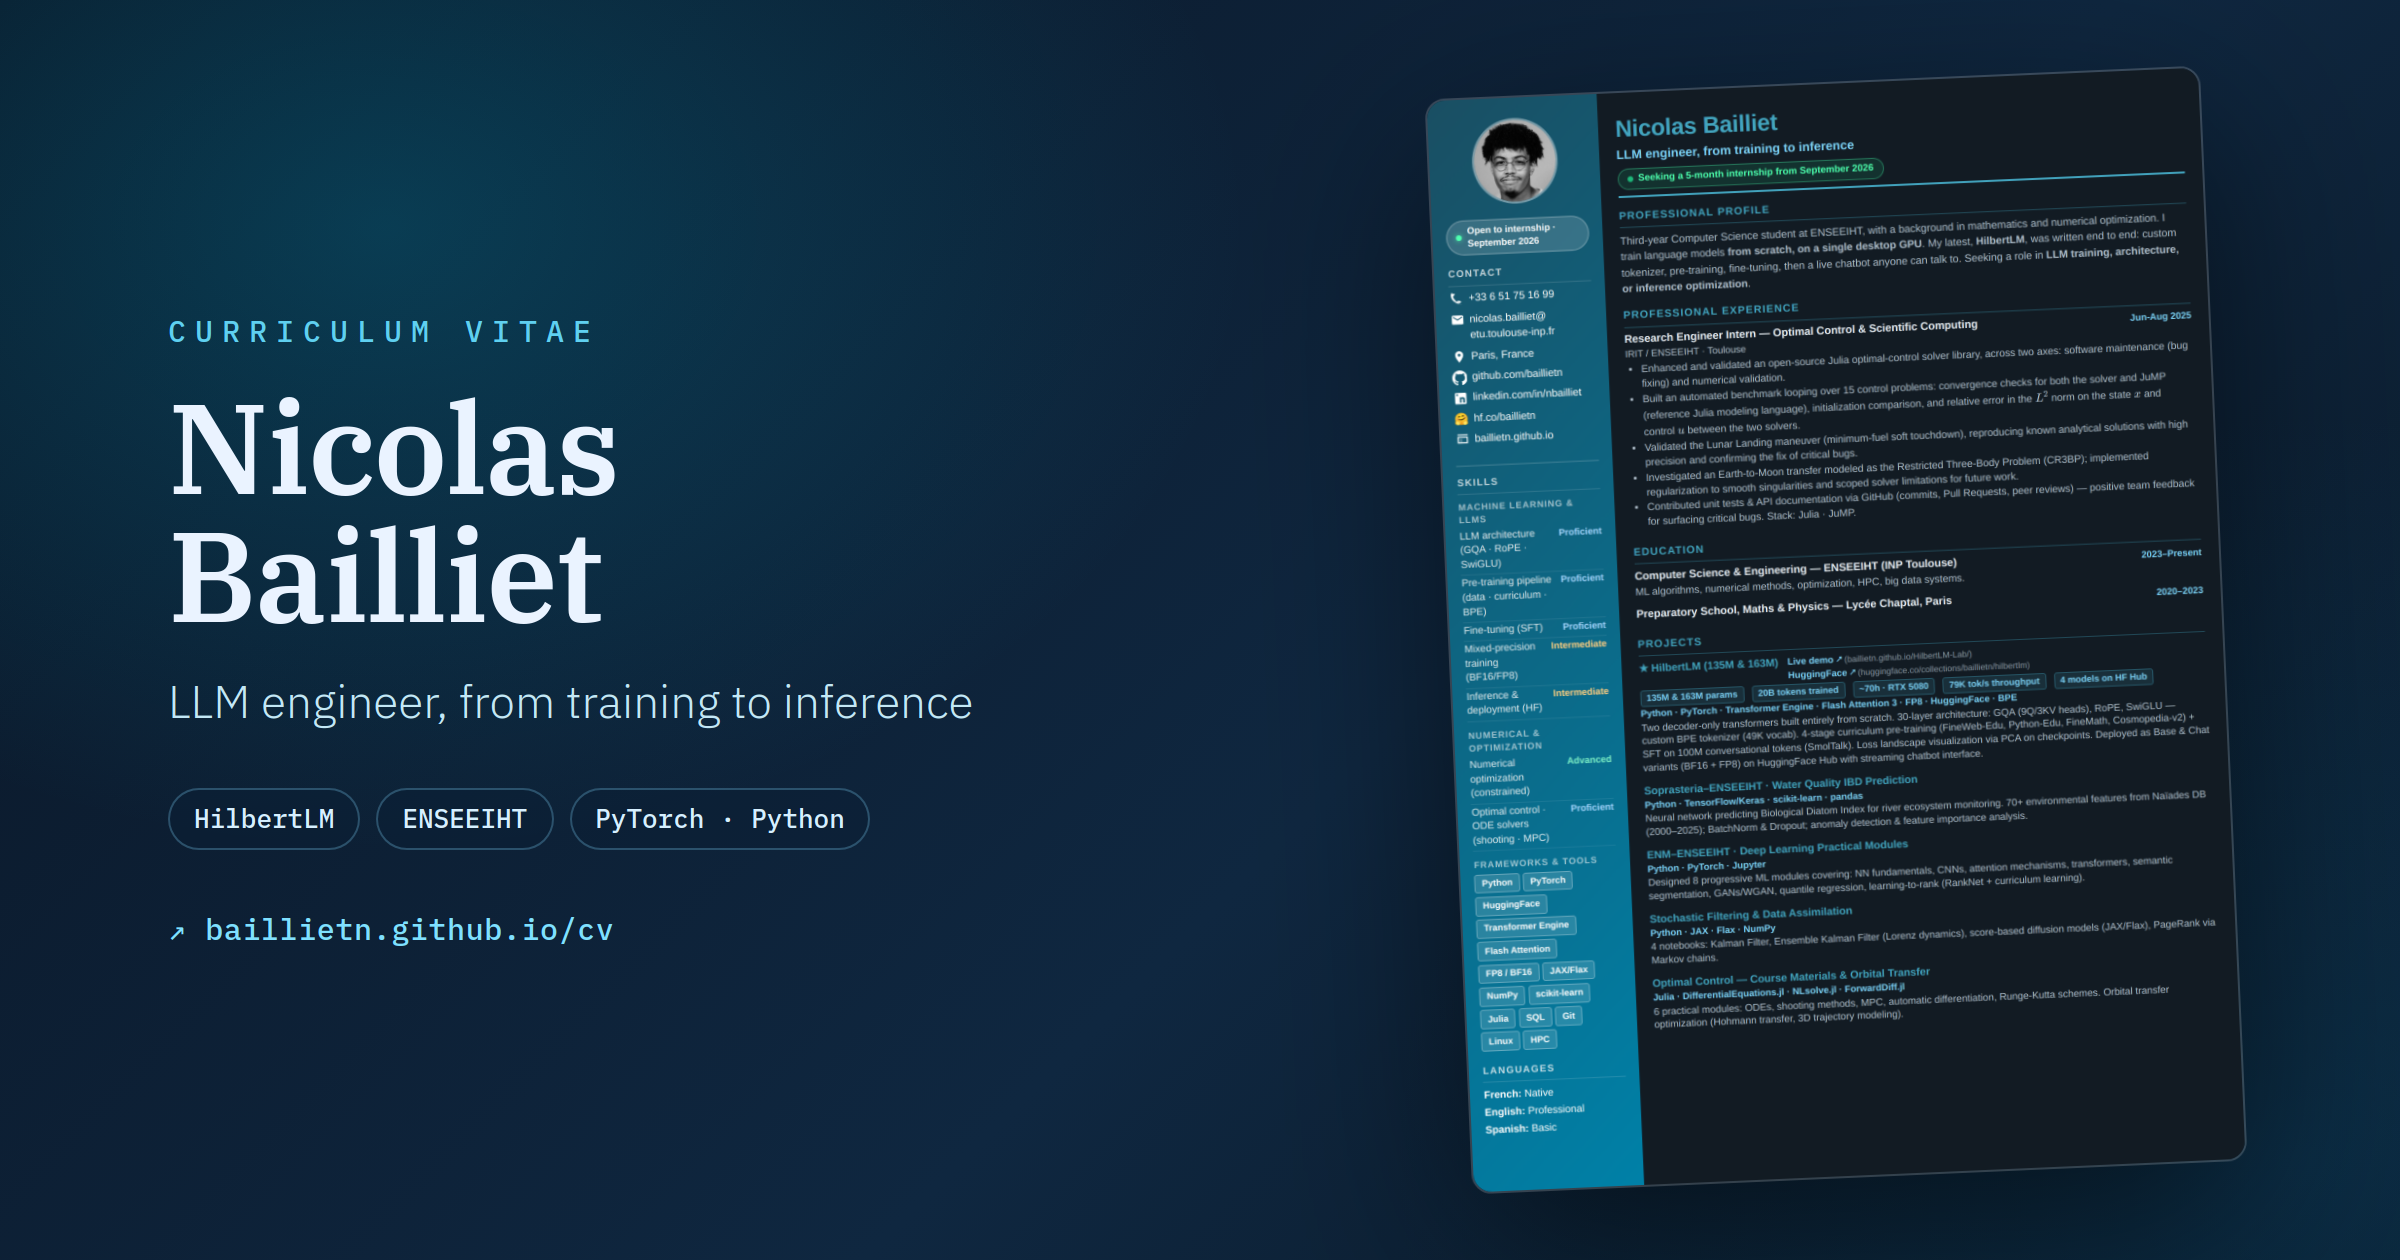
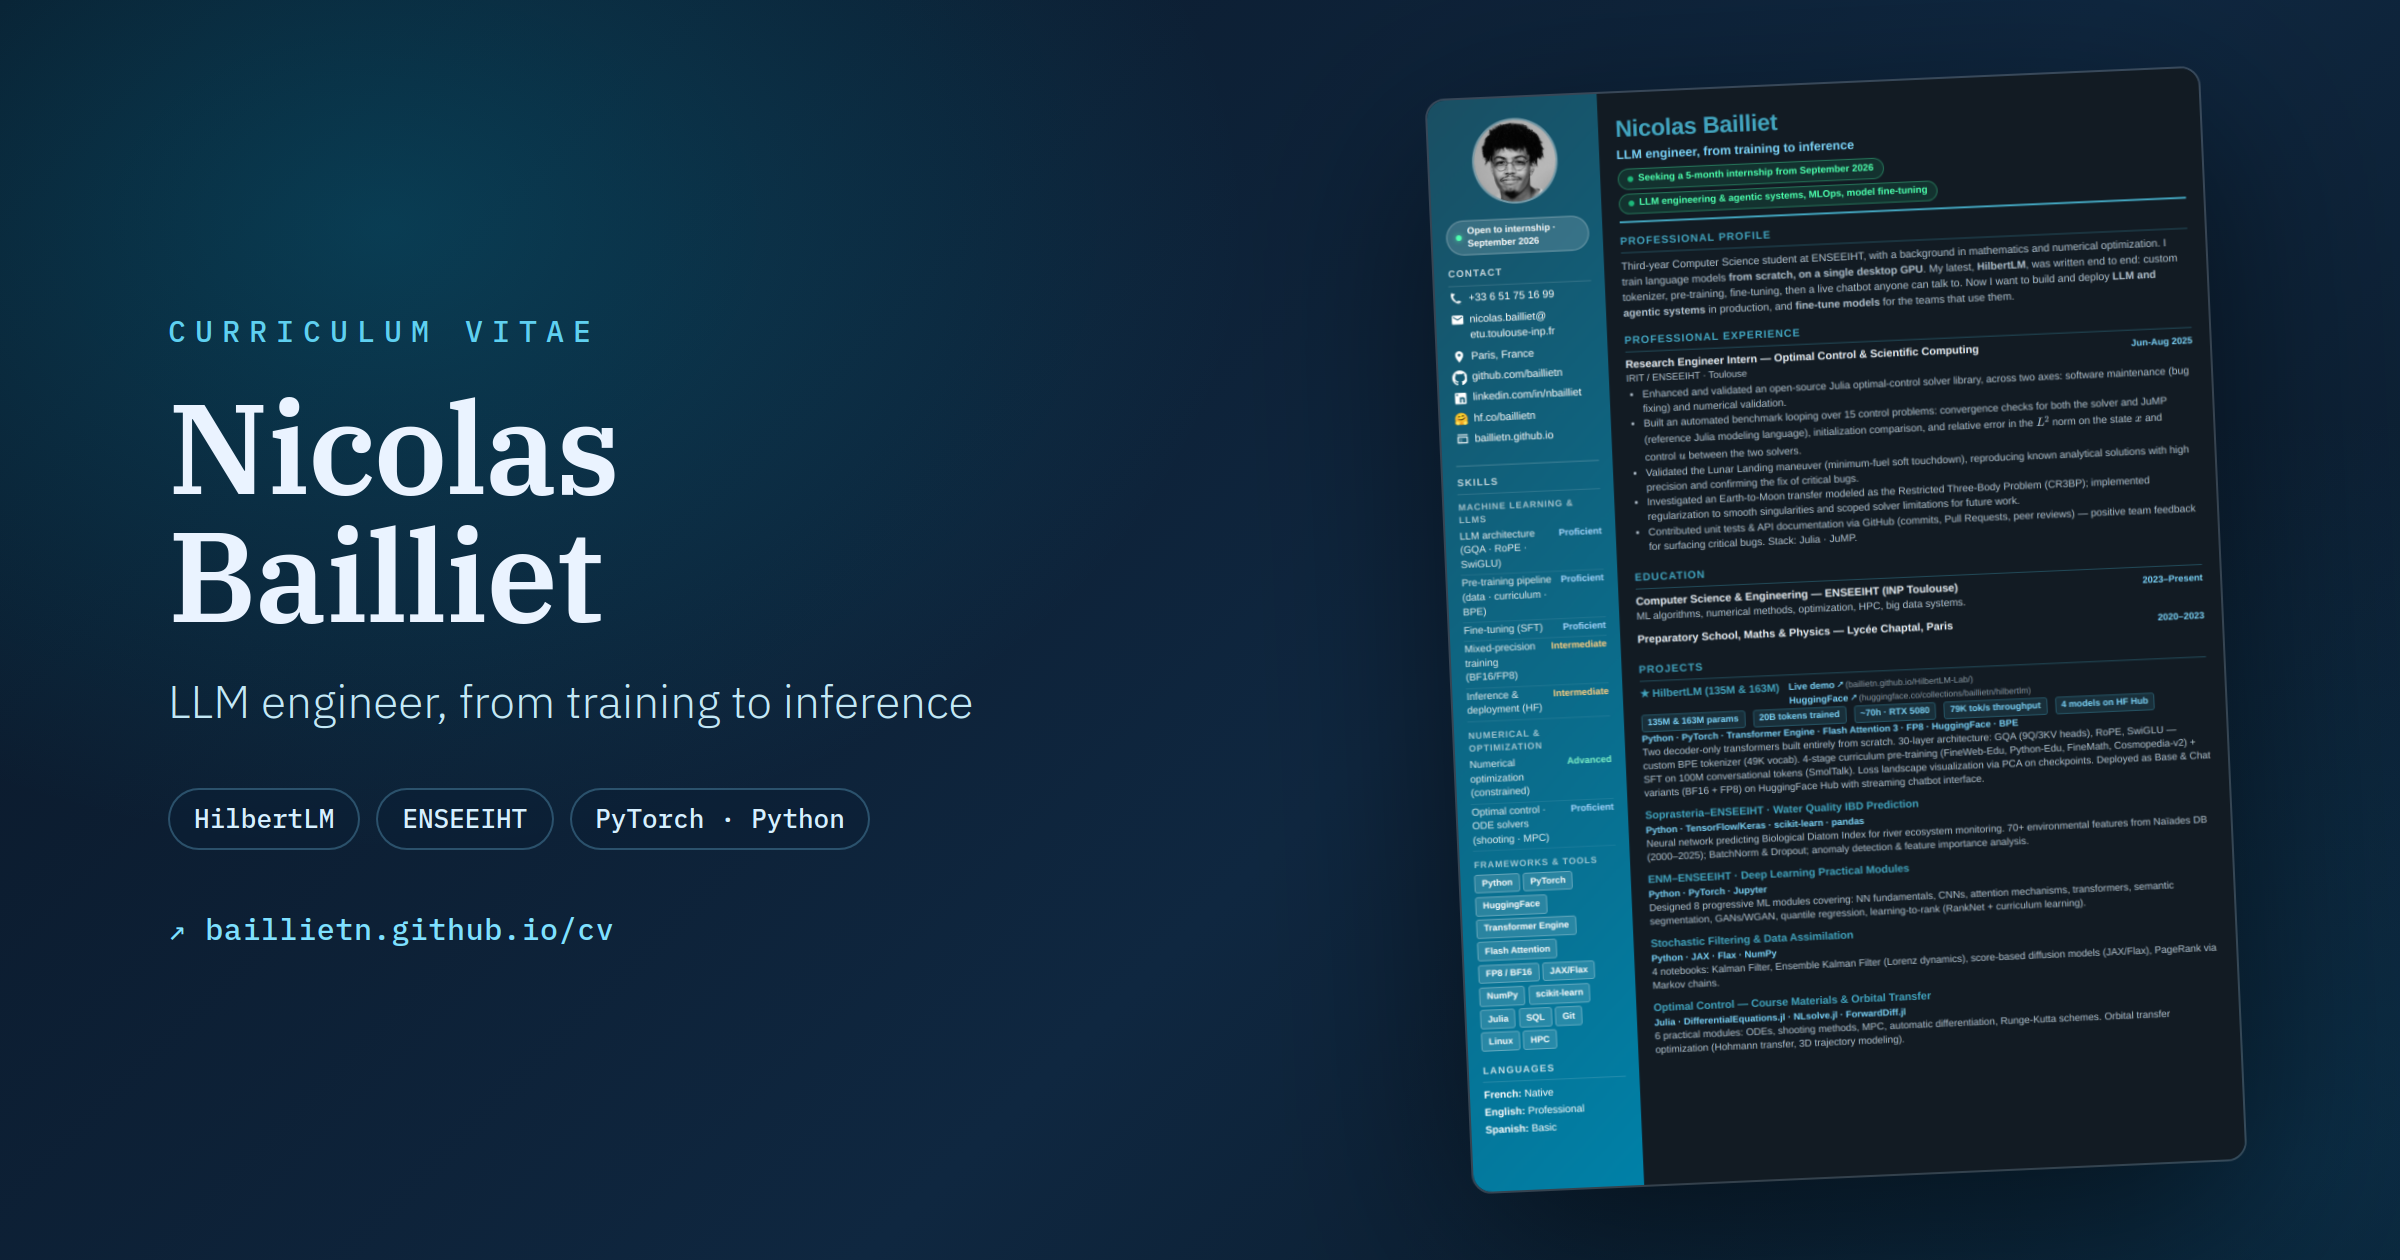
update objectives

Changed region(s): [[0.6562, 0.1238, 0.9375, 0.8357]]

diff --git a/cv/index.html b/cv/index.html
@@ -144,9 +144,15 @@
                 <div class="name">Nicolas Bailliet</div>
                 <div class="title-line">LLM engineer, from training to inference
                 </div>
-                <div class="avail-inline">
-                    <span class="avail-inline-dot"></span>
-                    Seeking a 5-month internship from September 2026
+                <div class="avail-row">
+                    <div class="avail-inline">
+                        <span class="avail-inline-dot"></span>
+                        Seeking a 5-month internship from September 2026
+                    </div>
+                    <div class="avail-inline">
+                        <span class="avail-inline-dot"></span>
+                        LLM engineering &amp; agentic systems, MLOps, model fine-tuning
+                    </div>
                 </div>
             </div>
 
@@ -157,7 +163,8 @@
                     I train language models <strong>from scratch, on a single desktop GPU</strong>. My latest,
                     <strong>HilbertLM</strong>, was written end to end: custom tokenizer, pre-training, fine-tuning,
                     then a live chatbot anyone can talk to.
-                    Seeking a role in <strong>LLM training, architecture, or inference optimization</strong>.
+                    Now I want to build and deploy <strong>LLM and agentic systems</strong> in production,
+                    and <strong>fine-tune models</strong> for the teams that use them.
                 </p>
             </div>
 

diff --git a/index.html b/index.html
@@ -73,6 +73,10 @@
                     The latest one is <strong>HilbertLM</strong>: I wrote every stage by hand, from the
                     tokenizer to a chatbot you can actually talk to.
                 </p>
+                <p class="reveal d3">
+                    Now I want to do it at scale: building and deploying <strong>LLM and agentic systems</strong>
+                    in production, and <strong>fine-tuning models</strong> for the teams that rely on them.
+                </p>
                 <div class="hero-actions reveal d3">
                     <a class="btn btn-primary" href="#projects">View my projects</a>
                     <a class="btn btn-primary" href="https://huggingface.co/collections/baillietn/hilbertlm"
@@ -94,6 +98,7 @@
                     <li>
                         <span class="hero-fact-lbl">Looking for</span>
                         <span class="hero-fact-val">A 5-month internship from September 2026</span>
+                        <span class="hero-fact-sub">LLM engineering &amp; agentic systems, MLOps, model fine-tuning</span>
                     </li>
                     <li>
                         <span class="hero-fact-lbl">Based in</span>

diff --git a/style.css b/style.css
@@ -1,4 +1,4 @@
-@import url('https://fonts.googleapis.com/css2?family=Space+Grotesk:wght@400;500;700&family=Fraunces:opsz,wght@9..144,400;9..144,600&display=swap');
+@import url('https://fonts.googleapis.com/css2?family=Space+Grotesk:wght@400;500;700&family=Fraunces:ital,opsz,wght@0,9..144,400;0,9..144,600;1,9..144,400&display=swap');
 
 :root {
     color-scheme: light dark;
@@ -349,6 +349,15 @@ h1 {
     font-size: 0.9rem;
     color: var(--ink);
     line-height: 1.3;
+}
+
+.hero-fact-sub {
+    font-family: 'Fraunces', serif;
+    font-style: italic;
+    font-size: 0.98rem;
+    color: var(--ink-soft);
+    line-height: 1.35;
+    margin-top: 0.15rem;
 }
 
 /* ── SECTIONS ── */

diff --git a/cv/style.css b/cv/style.css
@@ -291,6 +291,14 @@ body {
     margin-top: 0.05rem;
 }
 
+.avail-row {
+    display: flex;
+    flex-direction: column;
+    align-items: flex-start;
+    gap: 0.25rem;
+    margin-top: 0.3rem;
+}
+
 .avail-inline {
     display: inline-flex;
     align-items: center;
@@ -302,7 +310,6 @@ body {
     font-size: 0.62rem;
     font-weight: 700;
     color: var(--cv-avail-text);
-    margin-top: 0.3rem;
 }
 
 .avail-inline-dot {
